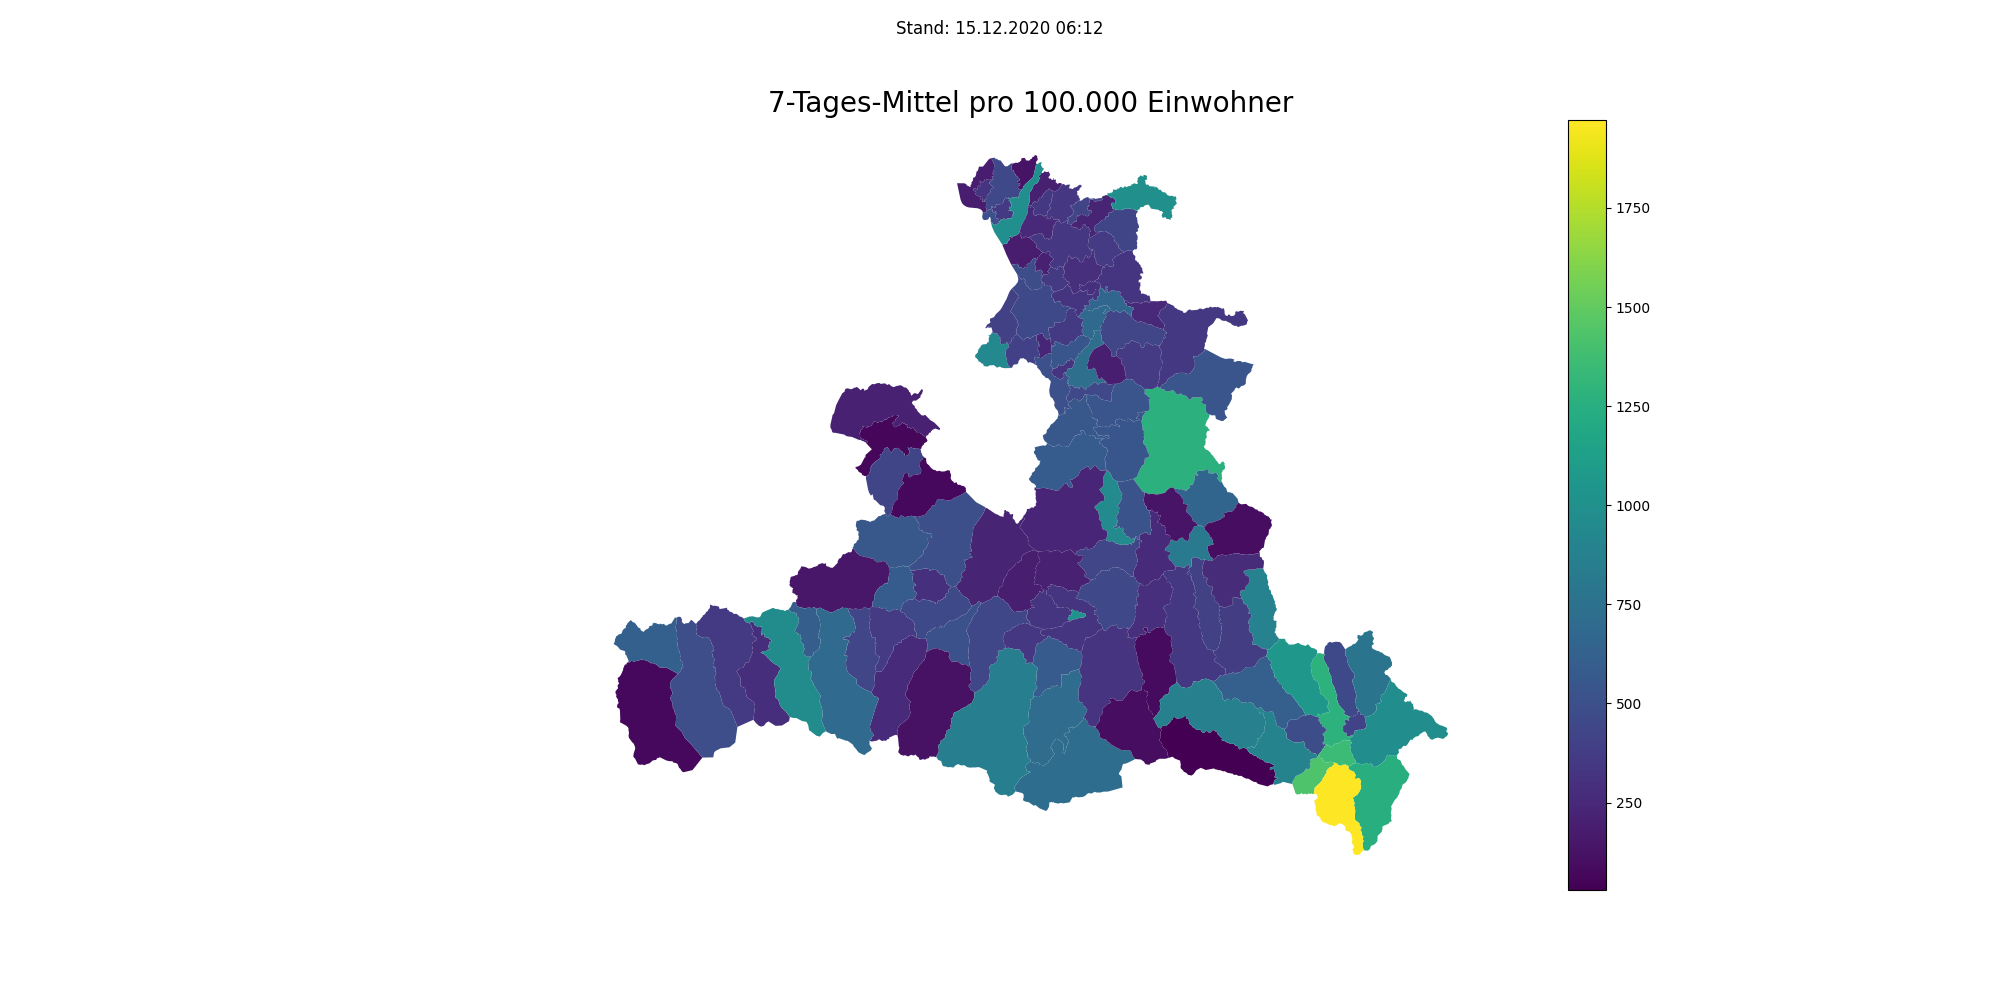
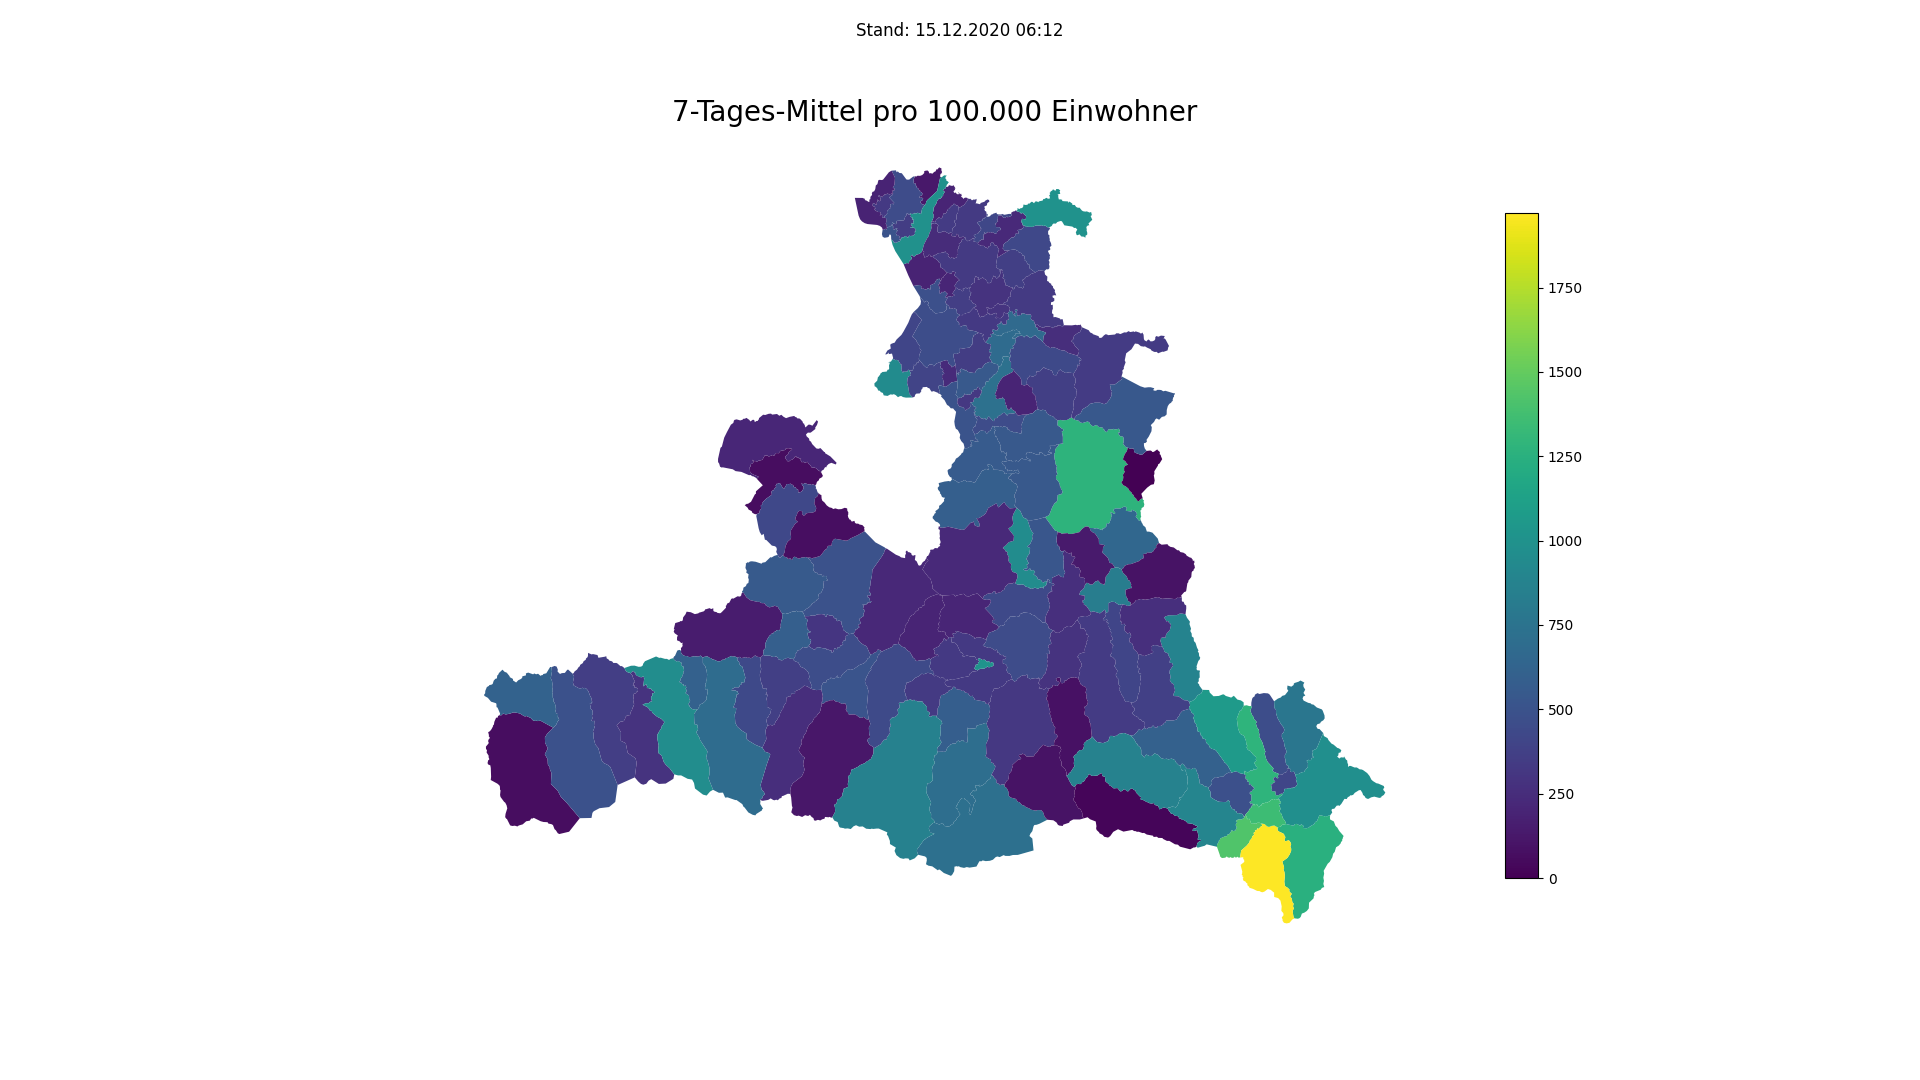
bugfix Rußbach not shown

diff --git a/docs/css/main.css b/docs/css/main.css
@@ -40,5 +40,5 @@ h2 .population {
 }
 
 #sbgMap {
-    width: 100%;
+    max-width: 100%;
 }

diff --git a/src/map.py b/src/map.py
@@ -36,10 +36,11 @@ def main():
         'Fusch an der Glocknerstraße': 'Fusch an der Großglocknerstraße',
         'Sankt Martin im Tennengebirge': 'Sankt Martin am Tennengebirge',
         'Hollersbach': 'Hollersbach im Pinzgau',
+        'Rußbach am Pass Gschütt': 'Rußbach am Paß Gschütt'
     })
 
     plot_data = salzburg.join(covid_data)[['relativeActive', 'geometry']]
-    plot_data.plot(column='relativeActive', figsize=(20, 10), legend=True)
+    plot_data.plot(column='relativeActive', figsize=(19.2, 10.8), legend=True, legend_kwds={'shrink': 0.8})
     plt.axis('off')
     plt.title('7-Tages-Mittel pro 100.000 Einwohner', fontsize=20)
     plt.suptitle('Stand: ' + last_updated.strftime('%d.%m.%Y %H:%m'))
